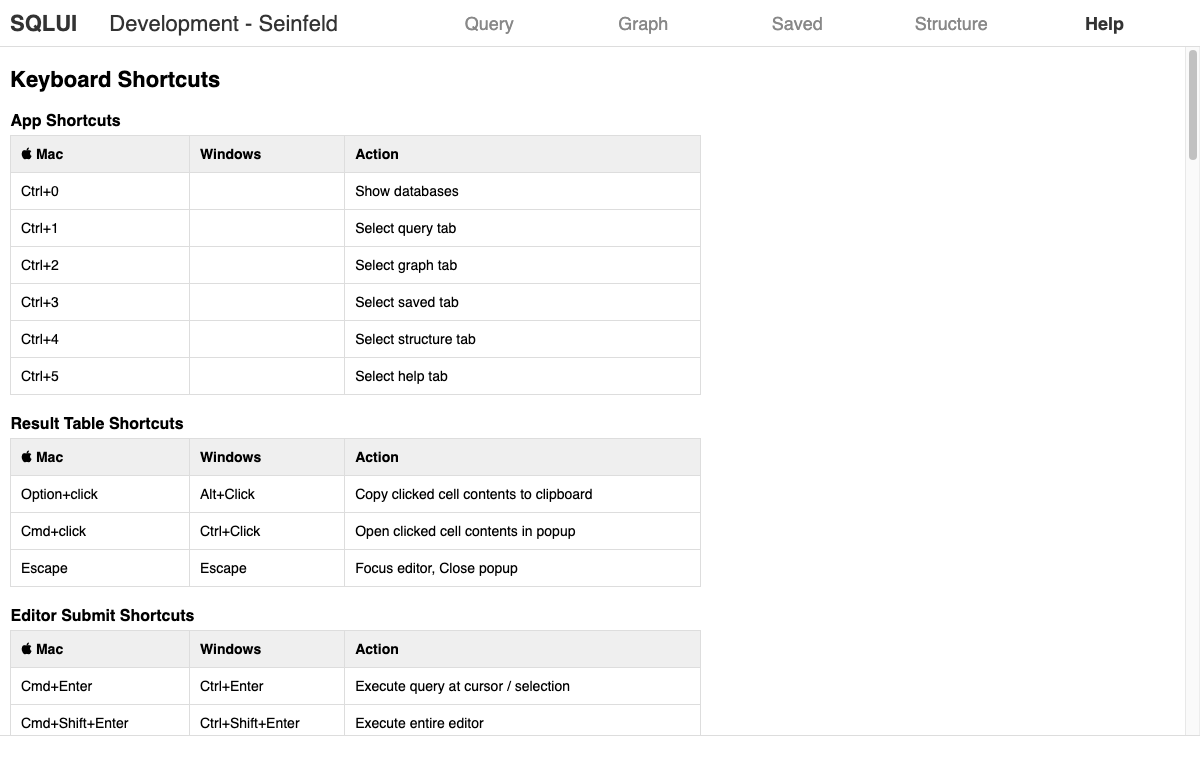
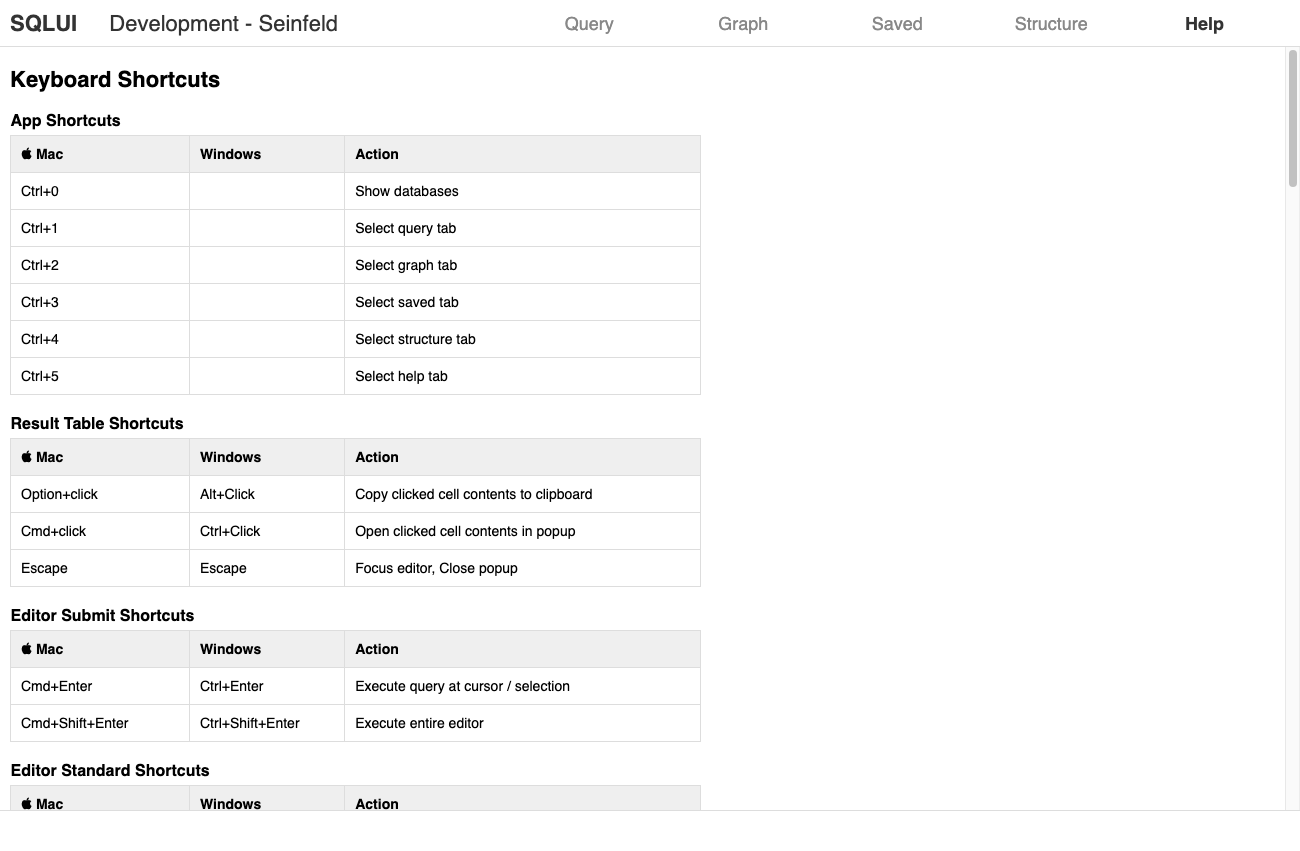
Update screenshots.

diff --git a/screenshots/saved.rb b/screenshots/saved.rb
@@ -18,20 +18,35 @@ describe 'saved' do
     }
   end
 
-  let(:content_response) { { content: Base64.encode64('select * from characters limit 1;') } }
+  let(:content_one_response) { { content: Base64.encode64('select * from characters limit 1;') } }
+  let(:content_two_response) do
+    {
+      content: Base64.encode64(
+        <<~SQL
+          -- Selects all characters.
+          select
+            *
+          from characters
+          where true
+            and id > 0
+            and id < 10;
+        SQL
+      )
+    }
+  end
 
   before do
     stub_request(:get, 'https://api.github.com/repos/nicholasdower/sqlui/git/trees/master?recursive=true')
       .to_return(body: tree_response.to_json, status: 200)
     stub_request(:get, 'https://api.github.com/repos/nicholasdower/sqlui/contents/sql/friends/sample_one.sql?ref=some_sha')
-      .to_return(body: content_response.to_json, status: 200)
+      .to_return(body: content_one_response.to_json, status: 200)
     stub_request(:get, 'https://api.github.com/repos/nicholasdower/sqlui/contents/sql/friends/sample_two.sql?ref=some_sha')
-      .to_return(body: content_response.to_json, status: 200)
+      .to_return(body: content_two_response.to_json, status: 200)
   end
 
   it 'is screenshotted' do
     driver.get(url('/sqlui/friends/saved'))
-    driver.manage.window.resize_to(1200, 900)
+    driver.manage.window.resize_to(1300, 975)
     wait.until do
       elements = driver.find_elements(css: '#saved-box > .saved-list-item > .saved-file-header > .saved-name')
       elements if elements.size == 2 && elements[0].displayed?

diff --git a/screenshots/graph.rb b/screenshots/graph.rb
@@ -9,7 +9,7 @@ describe 'graph' do
 
   it 'is screenshotted' do
     driver.get(url('/sqlui/seinfeld/graph?sql=select+id%2C+id+from+characters%3B&selection=29'))
-    driver.manage.window.resize_to(1200, 900)
+    driver.manage.window.resize_to(1300, 975)
     wait_until_editor(wait)
     driver.find_element(id: 'submit-button-current').click
     driver.save_screenshot('screenshots/graph.png')

diff --git a/screenshots/databases.rb b/screenshots/databases.rb
@@ -9,7 +9,7 @@ describe 'databases' do
 
   it 'is screenshotted' do
     driver.get(url('/sqlui'))
-    driver.manage.window.resize_to(1200, 900)
+    driver.manage.window.resize_to(1300, 975)
     wait.until do
       elements = driver.find_elements(css: '.database')
       elements if elements&.size == 3 && elements.all?(&:displayed?)

diff --git a/screenshots/structure.rb b/screenshots/structure.rb
@@ -9,7 +9,7 @@ describe 'structure' do
 
   it 'is screenshotted' do
     driver.get(url('/sqlui/seinfeld/structure'))
-    driver.manage.window.resize_to(1200, 900)
+    driver.manage.window.resize_to(1300, 975)
     wait_until_displayed(wait, id: 'columns')
     driver.save_screenshot('screenshots/structure.png')
   end

diff --git a/screenshots/help.rb b/screenshots/help.rb
@@ -9,7 +9,7 @@ describe 'help' do
 
   it 'is screenshotted' do
     driver.get(url('/sqlui/seinfeld/help'))
-    driver.manage.window.resize_to(1200, 900)
+    driver.manage.window.resize_to(1300, 975)
     wait_until_displayed(wait, id: 'help-box')
     driver.save_screenshot('screenshots/help.png')
   end

diff --git a/screenshots/query.rb b/screenshots/query.rb
@@ -9,7 +9,7 @@ describe 'query' do
 
   it 'is screenshotted' do
     driver.get(url('/sqlui/seinfeld/query'))
-    driver.manage.window.resize_to(1200, 900)
+    driver.manage.window.resize_to(1300, 975)
     wait_until_editor(wait)
     driver.save_screenshot('screenshots/query.png')
   end
